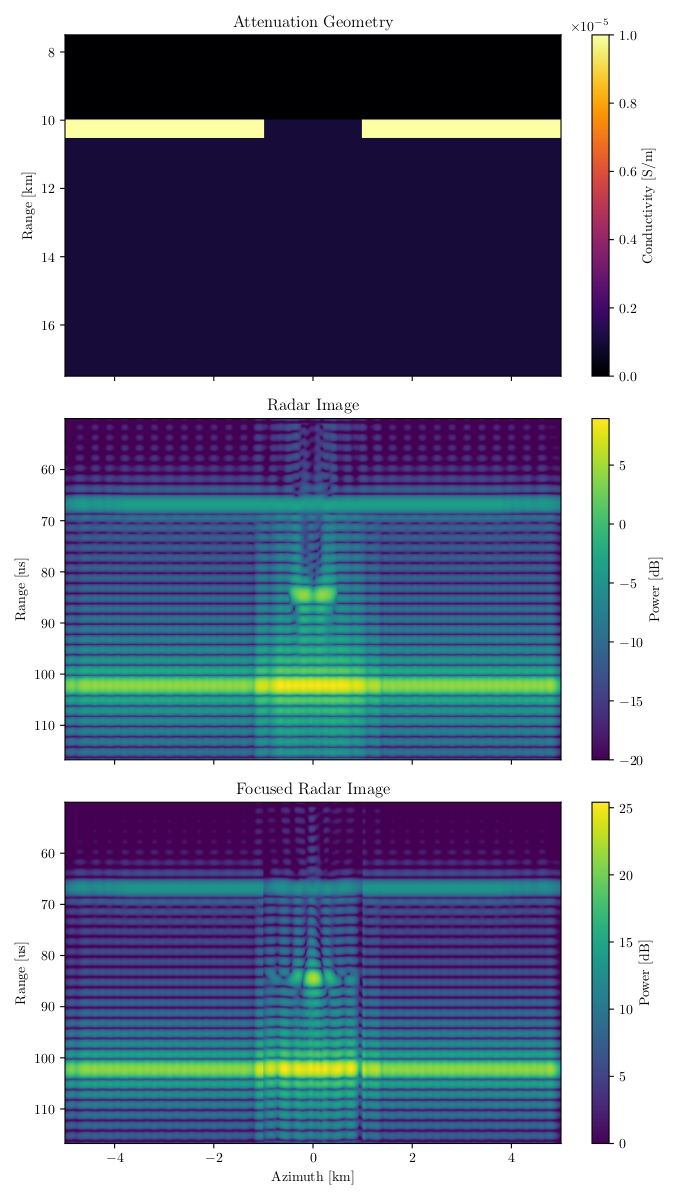
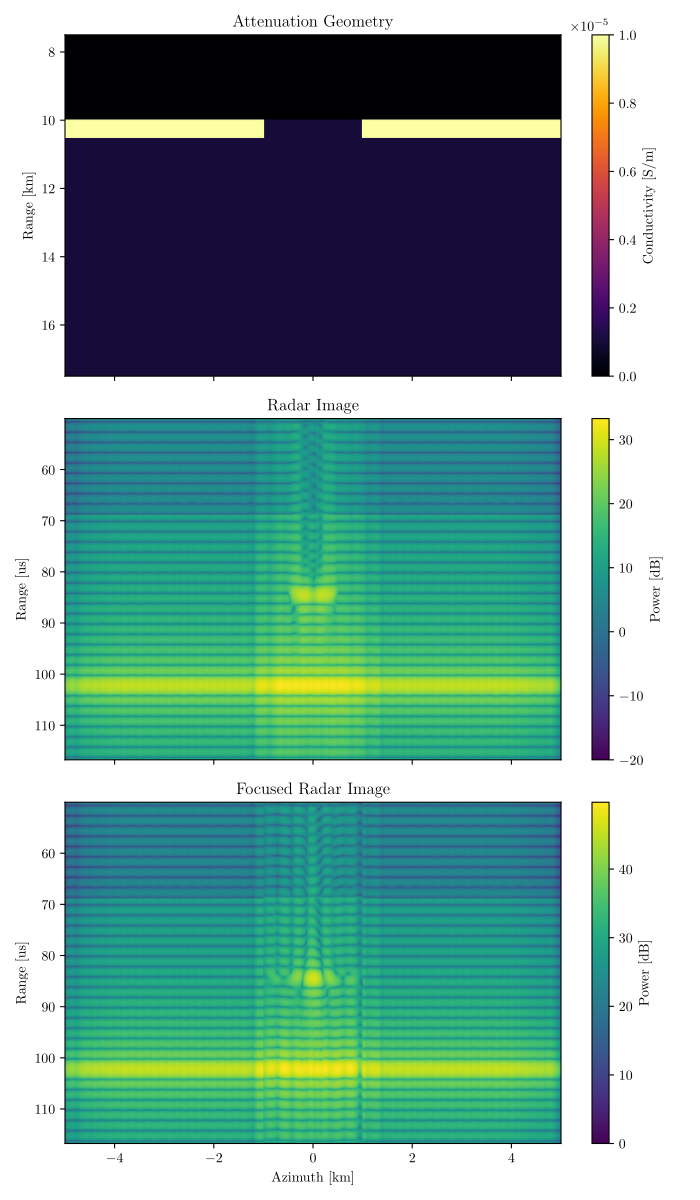
Painful debugging to fix 0-subsurface response for SHARAD example

diff --git a/examples/KOROLEV/code/params.py b/examples/KOROLEV/code/params.py
@@ -15,7 +15,7 @@ params = {
     "frequency": 20e6,        # Radar frequency [Hz]
     "bandwidth": 10e6,        # Radar bandwidth [Hz]
     "surface_gain": 20,       # Antenna gain [dB]
-    "subsurface_gain": 0,    # Subsurface antenna gain [dB]
+    "subsurface_gain": 30,    # Subsurface antenna gain [dB]
     "polarization": "HH",     # polarization (HH, VV, HV, VH)
     "aperture": 1,            # aperture (from nadir->edge) [deg]
 
@@ -44,7 +44,7 @@ params = {
     "fs": 463.114129,              # facet size [m]
 
     # target params
-    "rerad_funct": 2,  # 0.5-degree boxcar
+    "rerad_funct": 1,  # 3-degree boxcar
 
     # processing parameters (BOOLEAN)
     "convolution": True,   # use convolution-based processing
@@ -106,7 +106,61 @@ sat_x, sat_y, sat_z = uc.km_to_m(sat_x, sat_y, sat_z)
 
 # compute a normal vector for each observation
 n_hat = ku.sharad_normal(sat_x, sat_y, sat_z, nmult=1)
+print(n_hat)
 
 # export as source file and obj
 ku.sources_norms_to_file(DIRECTORY, OBS, sat_x, sat_y, sat_z, n_hat[:, 0], n_hat[:, 1], n_hat[:, 2]) 
 ku.sources_norms_to_obj(DIRECTORY, OBS, sat_x, sat_y, sat_z, n_hat[:, 0], n_hat[:, 1], n_hat[:, 2])
+
+# MAKE SUBSURFACE TARGETS
+
+# make some test subsurface targets directly beneath source
+tar_x, tar_y, tar_z = ku.planetocentric_to_cartesian(geometry['SRAD']-315.3, geometry['LAT'], geometry['LON'])
+
+# convert from KM into M
+tar_x, tar_y, tar_z = uc.km_to_m(tar_x, tar_y, tar_z)
+
+# compute a normal vector for each observation
+#n_hat = ku.sharad_normal(tar_x, tar_y, tar_z, nmult=1)
+print(n_hat)
+
+# export as source file and obj
+ku.target_norms_to_file("data/Subsurface", "KOR_T", tar_x, tar_y, tar_z, n_hat[:, 0], n_hat[:, 1], n_hat[:, 2])
+
+
+# MAKE BASIC SIMPLE SURFACE
+# make some test subsurface targets directly beneath source
+tar_x, tar_y, tar_z = ku.planetocentric_to_cartesian(geometry['SRAD']-315, geometry['LAT'], geometry['LON'])
+
+# convert from KM into M
+tar_x, tar_y, tar_z = uc.km_to_m(tar_x, tar_y, tar_z)
+
+# compute a normal vector for each observation
+n_hat = ku.sharad_normal(tar_x, tar_y, tar_z, nmult=1)
+
+# create a basis
+ref = np.zeros_like(n_hat)
+ref[:, 2] = 1.0  # z-axis
+
+# if n is too close to z, switch to x-axis
+ref_mask = np.abs(n_hat[:, 2]) > 0.9
+ref[ref_mask] = np.array([1.0, 0.0, 0.0])
+
+# first tangent: u_hat = normalize(ref * n)
+u_hat = np.cross(ref, n_hat)
+u_hat /= np.linalg.norm(u_hat, axis=1, keepdims=True)
+
+# second tangent: v_hat = n * u_hat
+v_hat = np.cross(n_hat, u_hat)
+
+# export as source file and obj
+#ku.target_norms_to_file("data/Subsurface", "KOR_F", tar_x, tar_y, tar_z, n_hat[:, 0], n_hat[:, 1], n_hat[:, 2])
+with open("data/Subsurface/KOR_F.fct", 'w') as f:
+    i = 0
+    for x, y, z, nx, ny, nz, ux, uy, uz, vx, vy, vz in zip(tar_x, tar_y, tar_z, n_hat[:, 0], n_hat[:, 1], n_hat[:, 2], u_hat[:, 0], u_hat[:, 1], u_hat[:, 2], v_hat[:, 0], v_hat[:, 1], v_hat[:, 2]):
+        if i != len(tar_x) - 1:
+            f.write(f"{x:.6f},{y:.6f},{z:.6f}:{ux:.6f},{uy:.6f},{uz:.6f}:{vx:.6f},{vy:.6f},{vz:.6f}\n")
+        else:
+            f.write(f"{x:.6f},{y:.6f},{z:.6f}:{ux:.6f},{uy:.6f},{uz:.6f}:{vx:.6f},{vy:.6f},{vz:.6f}")
+        i += 1
+    print(f"Exported facet data to: data/Subsurface/KOR_F.fct")

diff --git a/examples/KOROLEV/code/TiffToFacets.py b/examples/KOROLEV/code/TiffToFacets.py
@@ -138,7 +138,7 @@ for i in range(mask.shape[1]):
 mask = mask.astype(bool)
 
 # find the radius of mars to the middle of the crater to create a subsurface mars radius "depth"
-crater_depth = 1500
+crater_depth = 300#1500
 subsrf_rad = data_Rs[kcenI_lat, kcenI_lon] - crater_depth
 
 # plot vector normals in spherical
@@ -271,7 +271,7 @@ for i_lat in range(tpar['rows']):
     sbzs = np.append(sbzs, subsrf_zs)
 
     # generate subsurface facet normals
-    subsrf_nhat = ku.sharad_normal(subsrf_xs, subsrf_ys, subsrf_zs)
+    subsrf_nhat = -1*ku.sharad_normal(subsrf_xs, subsrf_ys, subsrf_zs)
 
     sbnxs = np.append(sbnxs, subsrf_nhat[:, 0])
     sbnys = np.append(sbnys, subsrf_nhat[:, 1])
@@ -285,9 +285,9 @@ sbxs, sbys, sbzs, sbnxs, sbnys, sbnzs = [
 ku.target_norms_to_obj("data/Subsurface", "KOR_T", 
                         sbxs, sbys, sbzs,
                         sbnxs, sbnys, sbnzs, norms=False)
-ku.target_norms_to_file("data/Subsurface", "KOR_T", 
-                        sbxs, sbys, sbzs,
-                        sbnxs, sbnys, sbnzs)
+#ku.target_norms_to_file("data/Subsurface", "KOR_T", 
+#                        sbxs, sbys, sbzs,
+#                        sbnxs, sbnys, sbnzs)
 
 fig, ax = plt.subplots(2, 2, figsize=(14, 8))
 ax[0, 0].scatter(fxs, fys, s=1, c=frs)
@@ -319,16 +319,16 @@ with open(facet_file, 'w') as f:
 # generate a target file
 # place the target 1 km deep (ish b/c straight along axis) in the center of the ice mound
 # use the same normal as the facet above the target ("upwards")
-"""
-facet_above_target = 34138
-tx, ty, tz = fxs[facet_above_target], fys[facet_above_target], fzs[facet_above_target] - 1e3
+
+facet_above_target = 35083
+tx, ty, tz = fxs[facet_above_target], fys[facet_above_target], fzs[facet_above_target] - 0.4e3
 tnx, tny, tnz = [n[facet_above_target] for n in (fnxs, fnys, fnzs)]
 # export
 target_file = "data/Subsurface/KOR_T.txt"
 with open(target_file, 'w') as f:
-    i = 0
-    f.write(f"{tx},{ty},{tz},{-1*tnx},{-1*tny},{-1*tnz}")
-"""
+    f.write(f"{tx},{ty},{tz},{tnx},{tny},{tnz}")
+
+
 
 def export_obj_points_colored(filename, xs, ys, zs, values, nxs, nys, nzs, cmap_name="magma", vmin=None, vmax=None, nscale=0.5e3):
     # Normalize values to [0, 1]

diff --git a/src/PYTHON/rdr_plots.py b/src/PYTHON/rdr_plots.py
@@ -29,10 +29,12 @@ def simple_rdrgrm(rdrgrm, par, path, title=None, linspace=True, vmin=None, vmax=
         xmin = par['sx0']
         xmax = par['sx0'] + par['sdx'] * par['ns']
     else:
-        raise NotImplementedError("Cannot handle uneven source spacing yet.")
+        xmin = 0
+        xmax = rdrgrm.shape[1]
+        #raise NotImplementedError("Cannot handle uneven source spacing yet.")
 
     plt.imshow(uc.lin_to_db(np.abs(rdrgrm)), aspect='auto', vmin=vmin, vmax=vmax,
-           extent=[xmin/1e3, xmax/1e3, 2*(par["rx_window_offset_m"] + par["rx_window_m"])/299.792458, 2*par["rx_window_offset_m"]/299.792458])
+           extent=[xmin/1e3, xmax/1e3, (par["rx_window_offset_m"] + par["rx_window_m"]), par["rx_window_offset_m"]])
     plt.colorbar(label='Power [dB]')
     plt.xlabel("Azimuth [km]")
     plt.ylabel("Range [us]")

diff --git a/examples/UNIT_TESTS/attenuation/generate.py b/examples/UNIT_TESTS/attenuation/generate.py
@@ -15,8 +15,8 @@ params = {
     "power": 100,             # Transmitter power [W]
     "frequency": 9e6,         # Radar frequency [Hz]
     "bandwidth": 1e6,         # Radar bandwidth [Hz]
-    "surface_gain": 55,       # Antenna gain [dB]
-    "subsurface_gain": 70,    # Subsurface antenna gain [dB]
+    "surface_gain": 25,       # Antenna gain [dB]
+    "subsurface_gain": 50,    # Subsurface antenna gain [dB]
     "range_resolution": 300,  # range resolution [m]
     "polarization": "HH",     # polarization (HH, VV, HV, VH)
     "aperture": 7,            # aperture (from nadir->edge) [deg]

diff --git a/examples/KOROLEV/code/output.py b/examples/KOROLEV/code/output.py
@@ -11,9 +11,12 @@ import unit_convs      as uc
 
 params = oh.load_params("data/params.pkl", "data/Subsurface/KOR_T.txt")
 params['ns'] = 2000
+params['rx_window_offset_m'] = np.min(np.load("data/rx_window_positions.npy"))
 
 rdrgrm = oh.compile_rdrgrm("rdrgrm", params, rx_win_file="data/rx_window_positions.npy")
 print(f"Radargram shape: {rdrgrm.shape}")
+
+rp.simple_rdrgrm(rdrgrm, params, "tmp.png", linspace=False)
 
 np.save("output/rdrgrm.npy", rdrgrm)
 

diff --git a/src/PYTHON/simple_focusing.py b/src/PYTHON/simple_focusing.py
@@ -76,7 +76,6 @@ def est_slant_range(sx, sz, tx, tz, c1, c2, trim=True, clutter=False):
     return sltrng_ests
 
 
-
 def full_focus_at_center(rdrgrm, par, c1=299792458, sx_linspace=True):
 
     if sx_linspace:
